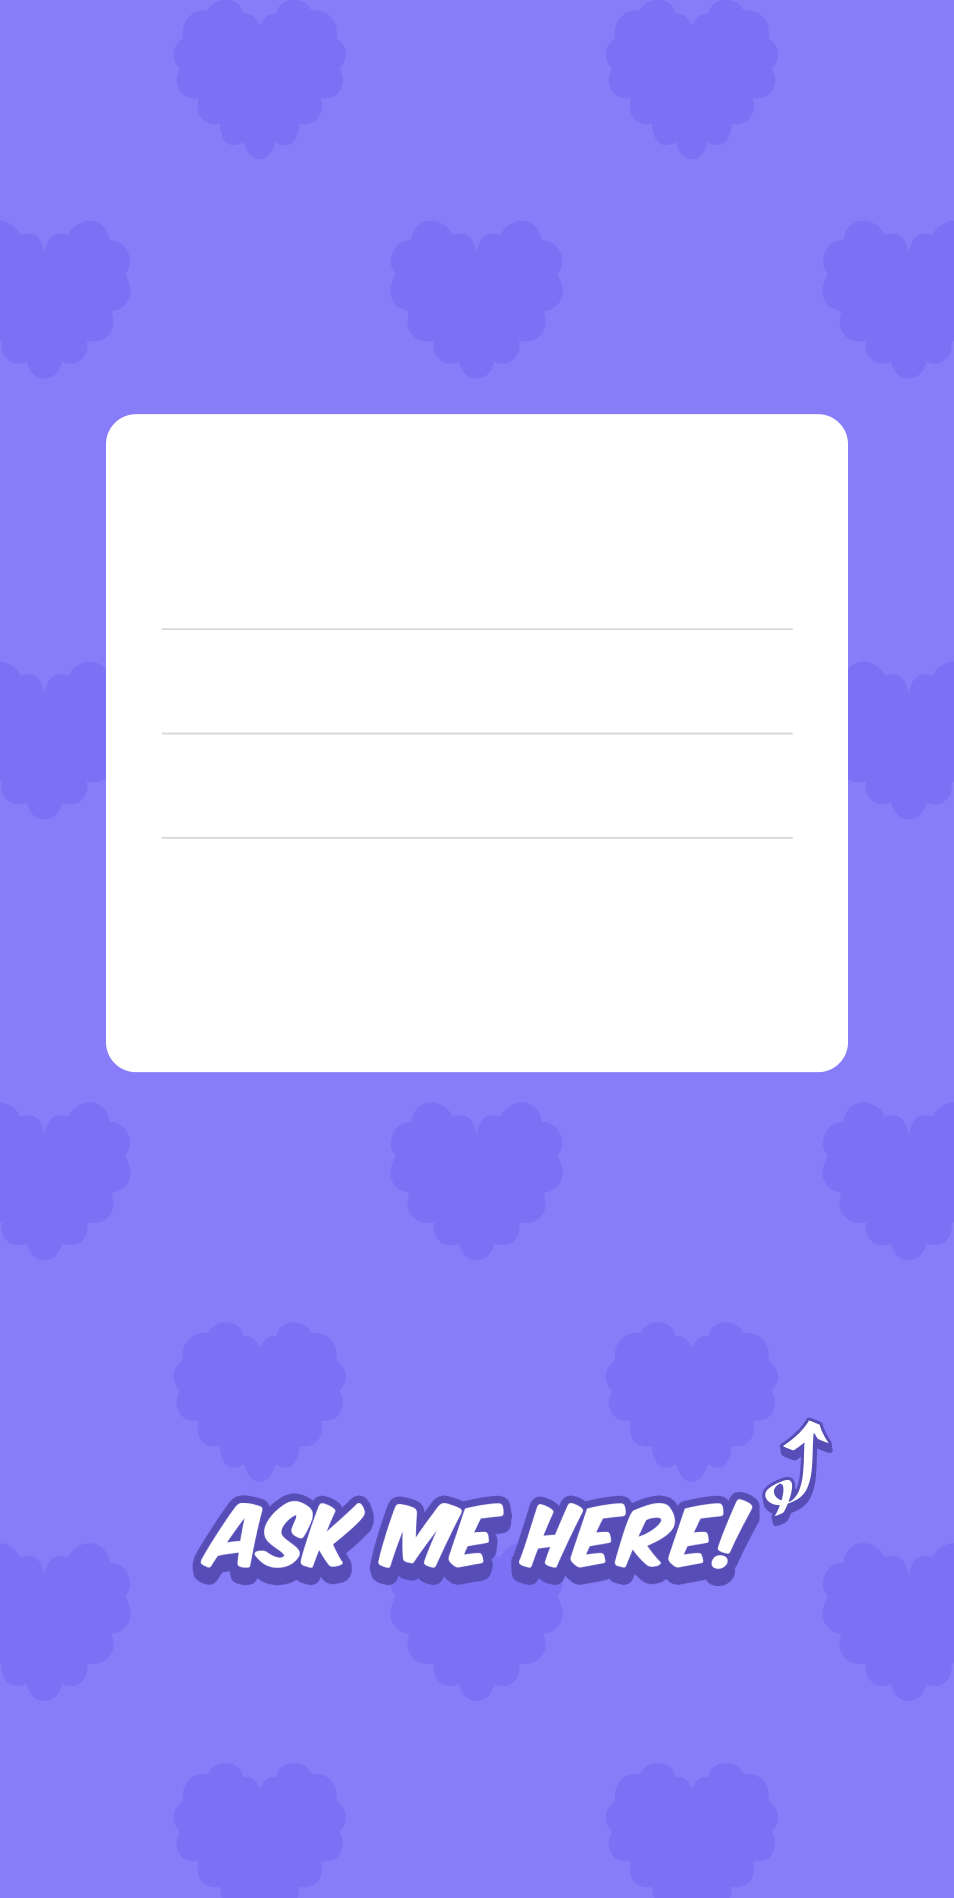
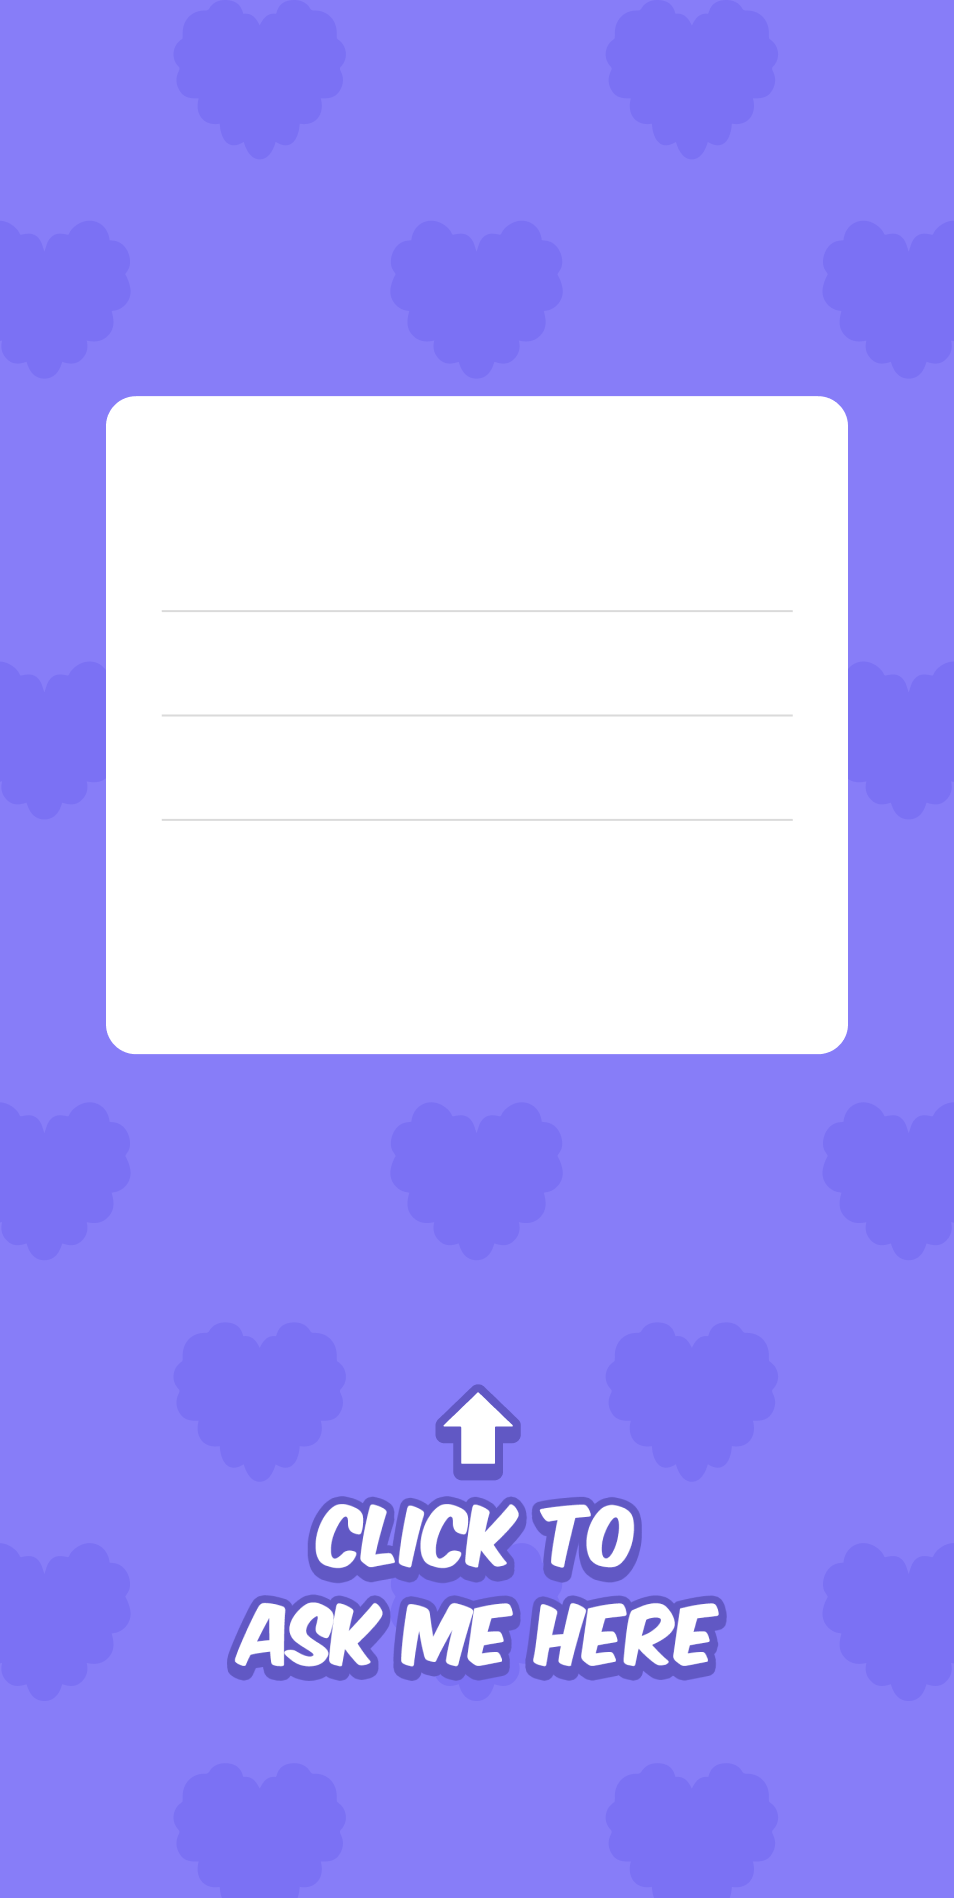
인스타 이미지 공유 -> 가운데 정렬. 텍스트 길이에 따라 마진 조절.

Changed region(s): [[0.1824, 0.715, 0.8816, 0.9015], [0.0912, 0.5285, 0.8816, 0.5906], [0.1216, 0.1865, 0.8816, 0.2176]]

diff --git a/lib/src/util/posting_helper.dart b/lib/src/util/posting_helper.dart
@@ -69,7 +69,7 @@ class PostingHelper {
       // 원본 이미지에 텍스트를 canvas로 그려서 입힌다. (가운데 좌표)
       drawImage(image, decodePng(listFont!)!,
           dstX: 150,
-          dstY: 550,
+          dstY: 520,
           dstW: painterDesc.pictureW.toInt(),
           dstH: painterDesc.pictureH.toInt());
     }
@@ -86,12 +86,13 @@ class PostingHelper {
     //     dstH: characterImage.height.toInt());
 
     // Load profile image. if it exists.
-    const width2= 385;
+
     if(profileImageBytes != null) {
       final profileImage = decodeImage(profileImageBytes)!;
+      final profileWidth= image.width~/2 - profileImage.width~/4;
       drawImage(image, profileImage,
-          dstX: width2,
-          dstY: 315,
+          dstX: profileWidth,
+          dstY: 300,
           dstW: profileImage.width.toInt() ~/ 2,
           dstH: profileImage.height.toInt() ~/ 2);
     }
@@ -102,13 +103,14 @@ class PostingHelper {
     // else { // without profile photo
     //   drawString(image, arial_24, width2, 400, "@${myinfo.slugId}");
     // }
-    drawString(image, arial_24, 650, 1000, "@${myinfo.slugId}", color: MyColor.kGreyB0.value);
+    // insert a profile text
+    drawString(image, arial_48, 670 - myinfo.slugId.length * 18, 980, "@${myinfo.slugId}", color: MyColor.kGreyB0.value);
 
-    // Load story background image.
+    // Load link place holder by your language.
     File linkPlaceholder= await ImageUtils.imageToFile(imageName: 'link_placeholder_${Get.locale!.languageCode.toString()}.png');
     final imageLinkPlaceholder = decodeImage(linkPlaceholder.readAsBytesSync())!;
     drawImage(image, imageLinkPlaceholder,
-        dstX: 165,
+        dstX: image.width~/2 - imageLinkPlaceholder.width~/2,
         dstY: 1250,
         dstW: imageLinkPlaceholder.width.toInt(),
         dstH: imageLinkPlaceholder.height.toInt());
